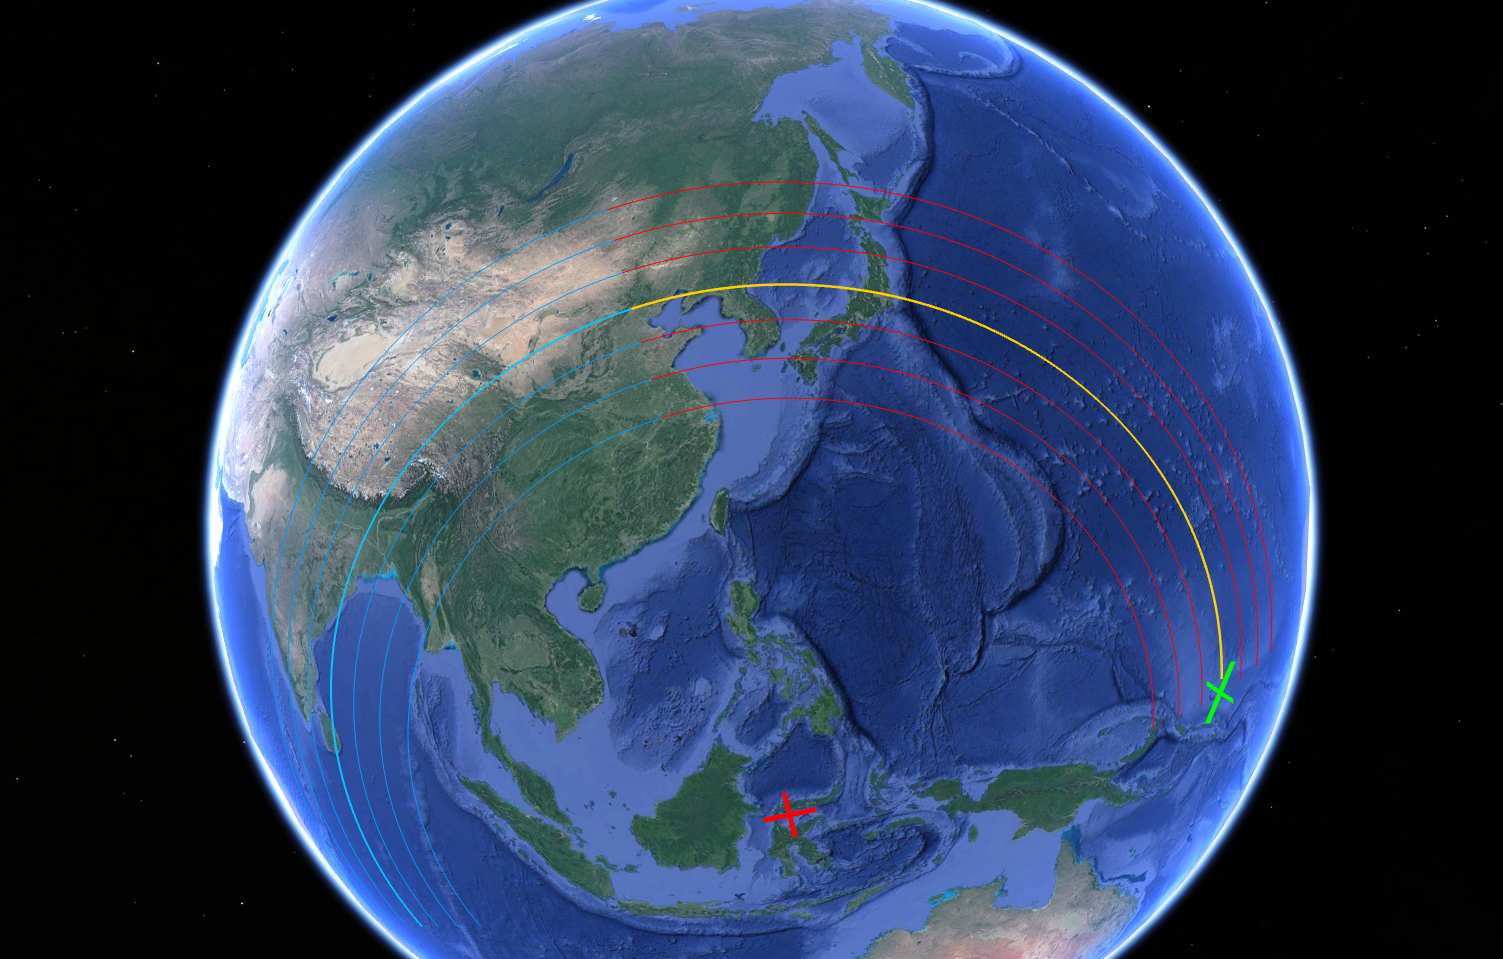
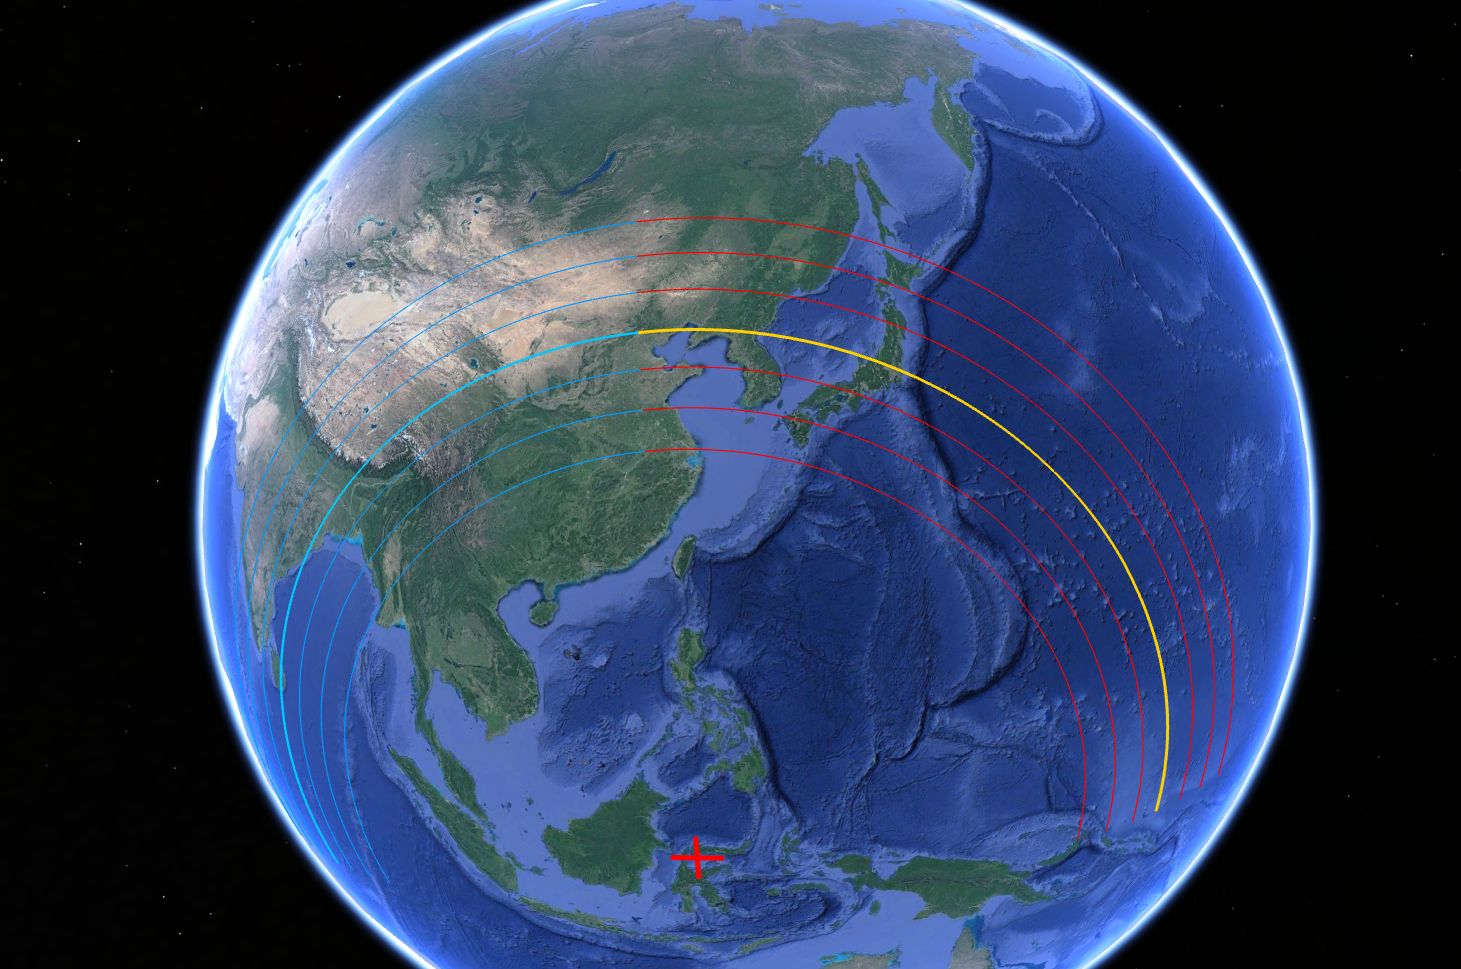
update kml script

diff --git a/5-TOOLS-DATA-DEV/scripts/rotational-path-kml/gen.py b/5-TOOLS-DATA-DEV/scripts/rotational-path-kml/gen.py
@@ -272,7 +272,7 @@ plotting the big and small lines
 '''
 if ew == "east":
     # -1 here instead of 0 to add space for the cross
-    add_to_kml(a, b, x, y, right - 2, 0, kml, BO, THICK) # main location
+    add_to_kml(a, b, x, y, right, 0, kml, BO, THICK) # main location
     add_to_kml(a, b, x, y, 0, left, kml, LB, WTHICK) # backwards
     for i in range(1, j + 1):
         center1 = move_point_closer(a, b, x, y, k * i)
@@ -283,7 +283,7 @@ if ew == "east":
         add_to_kml(a, b, center2[0], center2[1], 0, left, kml, DB, WTHIN)
 else:
     add_to_kml(a, b, x, y, right, 0, kml, LB, WTHICK) 
-    add_to_kml(a, b, x, y, 0, left - 2, kml, BO, THICK) # main location
+    add_to_kml(a, b, x, y, 0, left, kml, BO, THICK) # main location
     for i in range(1, j + 1):
         center1 = move_point_closer(a, b, x, y, k * i)
         add_to_kml(a, b, center1[0], center1[1], right, 0, kml, DB, WTHIN)
@@ -298,6 +298,6 @@ add_cross_to_kml(kml, (elat, elon), RED, 2, CROSS_THICK) #pivots
 add_cross_to_kml(kml, (wlat, wlon), RED, 2, CROSS_THICK)
 # add_cross_to_kml(kml, (x, y), GREEN, 1, THIN) #location
 # add_diag_cross_to_kml(kml, (x, y), GREEN, 2, THIN) #location
-add_diag_cross_to_kml(kml, dest, GREEN, 2, CROSS_THICK) #new location
+# add_diag_cross_to_kml(kml, dest, GREEN, 2, CROSS_THICK) #new location
 
 kml.save(OUTPUT)

diff --git a/5-TOOLS-DATA-DEV/scripts/rotational-path-kml/README.md b/5-TOOLS-DATA-DEV/scripts/rotational-path-kml/README.md
@@ -4,6 +4,8 @@
 
 ![china viz](img/china-viz.png "china viz")
 
+The location rotates along the orange line, starting from where the orange meets the blue line, and ending up at the end of the orange line.
+
 ## Dependencies
 
 Need Python installed, along with [pip](https://pip.pypa.io/en/stable/installation/) (Python package manager) and some Python packages (numpy, simplekml, geopy).
@@ -30,5 +32,4 @@ Output KML file will be written to `output.kml` which can then be loaded up into
 Legend:
 - The red crosses are the pivots.
 - Orange line is the path that the location will travel
-- Green cross is where the location will end up
 - Blue lines (104 degrees) are the part of the Earth that will rotate into the orange and red lines
